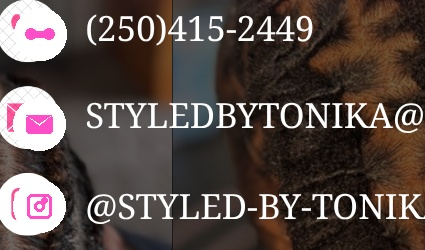
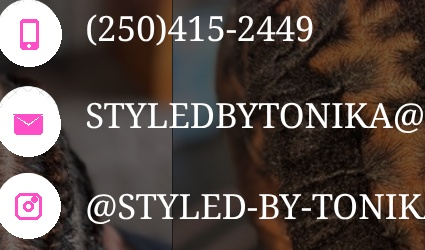
h

diff --git a/_fix_contact_icons.py b/_fix_contact_icons.py
@@ -13,24 +13,12 @@ WHITE = (255, 255, 255)
 
 def draw_phone(draw: ImageDraw.ImageDraw, cx: int, cy: int, s: int) -> None:
     draw.rounded_rectangle(
-        [cx - s * 0.78, cy - s * 0.30, cx - s * 0.18, cy + s * 0.30],
-        radius=int(s * 0.30),
+        [cx - s * 0.46, cy - s * 0.74, cx + s * 0.46, cy + s * 0.74],
+        radius=int(s * 0.16),
         fill=PINK,
     )
-    draw.rounded_rectangle(
-        [cx + s * 0.18, cy - s * 0.30, cx + s * 0.78, cy + s * 0.30],
-        radius=int(s * 0.30),
-        fill=PINK,
-    )
-    draw.polygon(
-        [
-            (cx - s * 0.32, cy - s * 0.16),
-            (cx + s * 0.32, cy - s * 0.16),
-            (cx + s * 0.24, cy + s * 0.18),
-            (cx - s * 0.24, cy + s * 0.18),
-        ],
-        fill=PINK,
-    )
+    draw.rectangle([cx - s * 0.30, cy - s * 0.54, cx + s * 0.30, cy + s * 0.38], fill=WHITE)
+    draw.ellipse([cx - s * 0.08, cy + s * 0.50, cx + s * 0.08, cy + s * 0.66], fill=WHITE)
 
 
 def draw_mail(draw: ImageDraw.ImageDraw, cx: int, cy: int, s: int) -> None:
@@ -77,12 +65,15 @@ def draw_instagram(draw: ImageDraw.ImageDraw, cx: int, cy: int, s: int) -> None:
 def main() -> None:
     im = Image.open(BANNER).convert("RGB").crop((0, 2000, 2000, 3000))
     draw = ImageDraw.Draw(im)
-    circles = [(1215, 324, 26), (1214, 414, 26), (1214, 496, 26)]
+    circles = [(1204, 324, 32), (1203, 414, 32), (1203, 496, 32)]
     painters = [draw_phone, draw_mail, draw_instagram]
+    overlay = Image.new("RGBA", im.size, (0, 0, 0, 0))
+    draw = ImageDraw.Draw(overlay)
     for (cx, cy, rad), paint in zip(circles, painters):
-        draw.ellipse([cx - rad, cy - rad, cx + rad, cy + rad], fill=WHITE)
-        paint(draw, cx, cy, 18)
-    im.save(OUT, "JPEG", quality=90, optimize=True, progressive=True)
+        draw.ellipse([cx - rad, cy - rad, cx + rad, cy + rad], fill=(*WHITE, 255))
+        paint(draw, cx, cy, 20)
+    im = Image.alpha_composite(im.convert("RGBA"), overlay).convert("RGB")
+    im.save(OUT, "JPEG", quality=92, optimize=True, progressive=True)
     PREVIEW.mkdir(parents=True, exist_ok=True)
     im.crop((1175, 290, 1600, 540)).save(PREVIEW / "icons-fixed.jpg", quality=95)
     print("saved", OUT)
